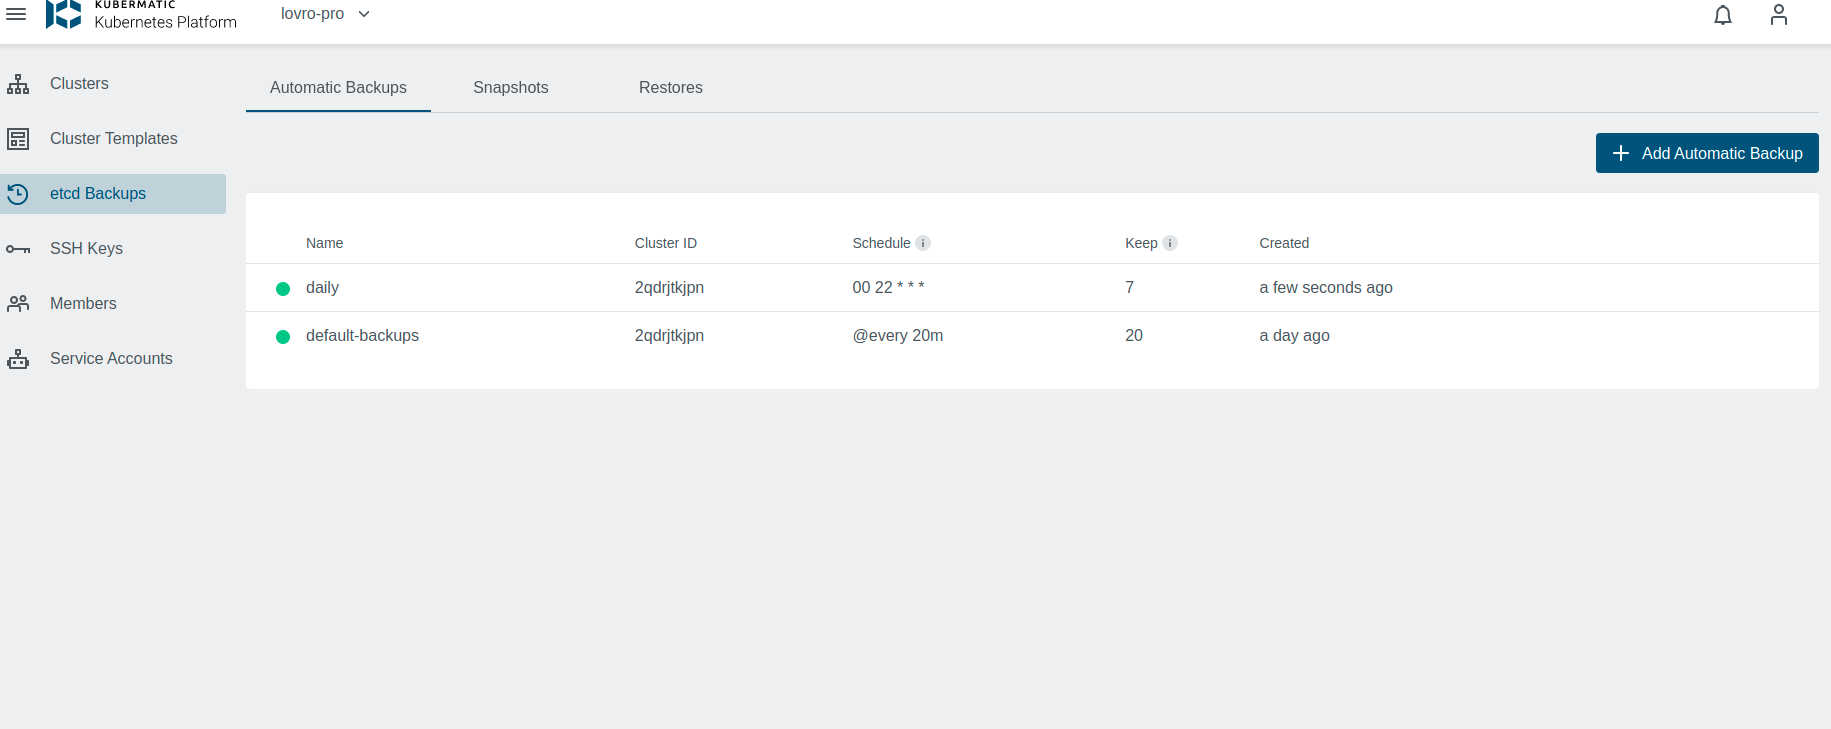
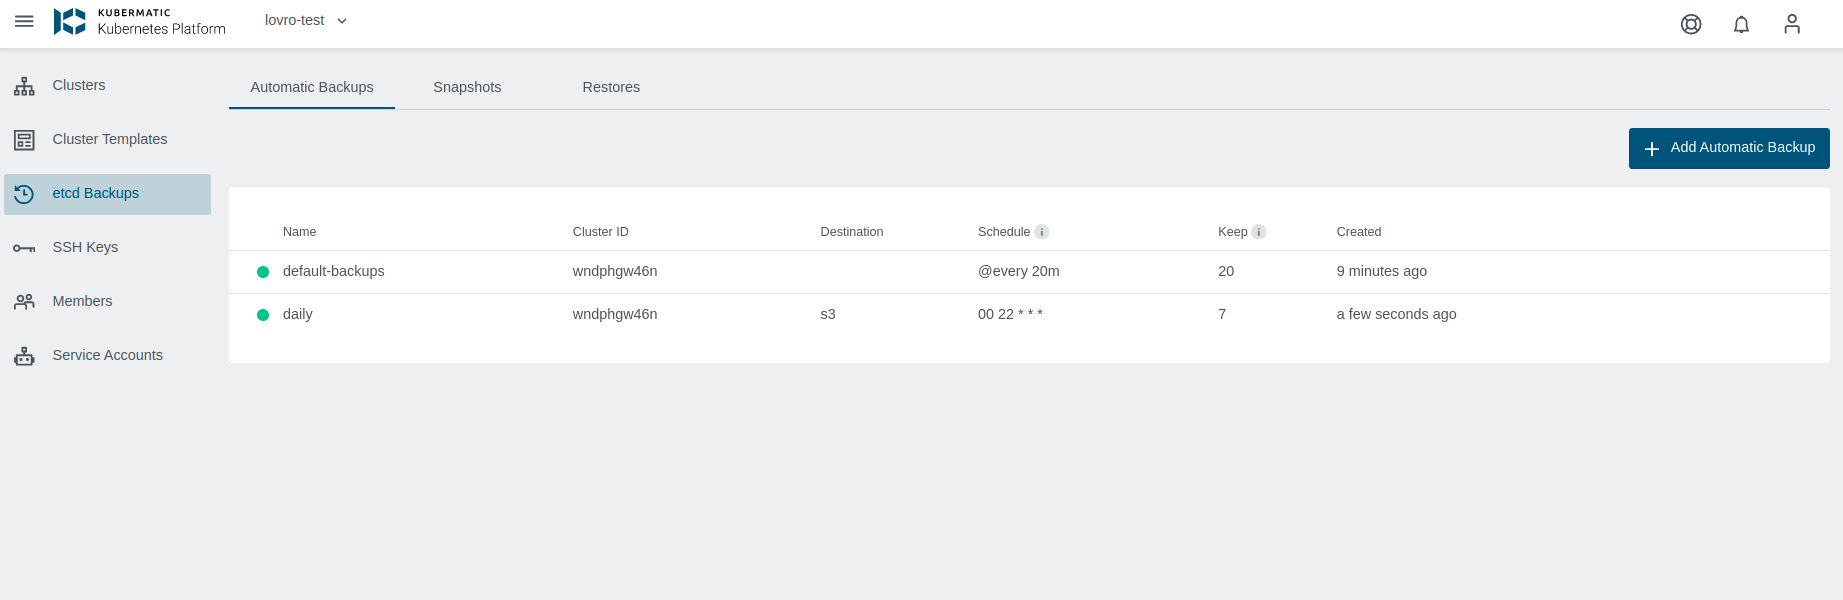
updated etcd backup docs (#877)

diff --git a/content/kubermatic/master/cheat_sheets/etcd/backup-and-restore/_index.en.md b/content/kubermatic/master/cheat_sheets/etcd/backup-and-restore/_index.en.md
@@ -1,5 +1,5 @@
 +++
-title = "[Experimental] Etcd Backup and Restore Controllers"
+title = "Etcd Backup and Restore Controllers"
 weight = 40
 +++
 
@@ -7,6 +7,8 @@ weight = 40
 ## Overview
 
 Starting with version v2.17, KKP introduced experimental support for new etcd Backup and Restore controller based on the [etcd-launcher]({{< ref "../etcd-launcher" >}}) experimental feature.
+
+Since 2.18, the feature is not experimental anymore
 
 The [legacy backup controller]({{< ref "../legacy_restore" >}}) is based on a simple cron job and didn't support automated restore operations. The new experimental controllers utilize new CRDs for backups and restore, support multiple backup configurations per cluster, immediate backups and automated restore operations.
 
@@ -20,26 +22,12 @@ Currently, only S3 compatible backup backends are supported.
 
 ## Enabling The New controllers
 
-To use the new backup/restore controller, the [etcd-launcher]({{< ref "../etcd-launcher" >}}) experimental feature must be enabled along with specifically enabling the controllers by passing the flag `--enable-etcd-backups-restores` to the seed controller manager. This can be achieved by setting the following values in the [KubermaticConfiguration]({{< ref "../../../tutorials_howtos/KKP_configuration/" >}}):
-
-```yaml
-spec:
-  # SeedController configures the seed-controller-manager.
-  seedController:
-    # BackupRestore contains the setup of the new backup and restore controllers.
-    backupRestore:
-      # Enabled enables the new etcd backup and restore controllers.
-      enabled: true
-      # S3BucketName is the S3 bucket name to use for backup and restore.
-      s3BucketName: ""
-      # S3Endpoint is the S3 API endpoint to use for backup and restore. Defaults to s3.amazonaws.com.
-      s3Endpoint: ""
-    # BackupDeleteContainer is the container used for deleting etcd snapshots from a backup location.
-    backupDeleteContainer: ""
-```
+To use the new backup/restore controller, the [etcd-launcher]({{< ref "../etcd-launcher" >}}) feature must be enabled along with specifically enabling the controllers by passing the flag `--enable-etcd-backups-restores` to the seed controller manager.
+This can be achieved for a Seed by KPP admins through configuring backup destinations for a Seed. As soon as there is at least one backup destination set, the feature is enabled. 
+More info on that here [Etcd Backup Destination Settings]({{< ref "../../../tutorials_howtos/administration/admin_panel/backup_buckets" >}}).
 
 {{% notice note %}}
-
+The legacy way of enabling the automatic etcd backups through the KubermaticConfiguration is still supported, although deprecated. It's advised to migrate to the Seed backup destinations.
 {{% /notice %}}
 
 ### Backup and Delete Containers
@@ -60,36 +48,17 @@ charts/kubermatic/static/delete-container.yaml
 You can't have both `backupCleanupContainer` and `backupDeleteContainer` set. `backupDeleteContainer` will take precedence when the new controller is enabled.
 {{% /notice %}}
 
-{{% notice note %}}
-The new containers expect that the S3 backend is SSL enabled. Unfortunately, the released minio chart doesn't support that by default, and will need to be modified to run over minio over SSL.
-{{% /notice %}}
-
-
 ### S3 Credentials and Settings
 
-The new controllers will use the credentials from the secret `kube-system/s3-credentials` similar to the legacy backup controller.
+The new controllers will use the credentials setup in the Seed Backup destinations, depending on the destination used. 
 
-However, when using the new containers, creating an additional ConfigMap with the S3 backend settings is required:
-
-```yaml
-apiVersion: v1
-kind: ConfigMap
-metadata:
-  name: s3-settings
-  namespace: kube-system
-data:
-  BUCKET_NAME: 
-  ENDPOINT: 
-```
-
+{{% notice note %}}
+Legacy credentials from `kube-system/s3-credentials` and the bucket details in `s3-settings` configmap is still supported, but deprecated. Please migrate to backup destinations.
+{{% /notice %}}
 
 ## Creating Backups
 
-By default a new backup configuration resource is created in the cluster namespace for each user cluster once the controllers are enabled. The new backup configuration resource is created with a default of `@every 20m` interval and 20 backup retention.
-
-### Custom Backup Configurations
-
-However, it's possible to create additional backup configuration if needed, simply by creating a backup configuration resource:
+To create an automatic backup, simply create a backup configuration resource. Or use the UI as shown here [Etcd Backup Management]({{< ref "../../../tutorials_howtos/etcd_backups" >}}).
 
 ```yaml
 apiVersion: kubermatic.k8s.io/v1
@@ -104,9 +73,13 @@ spec:
     name: zvc78xnnz7
   schedule: '0 1 * * *'
   keep: 40
+  destination: s3
 ```
 
-Once created, the controller will start a new backup every time the schedule demands it (i.e. at 1:00 AM in the example), and delete backups once more than `.spec.keep` (40 in the example) have been created. The created backups are named based on the configuration name and the backup timestamp `$backupconfigname-$timestamp`.
+Once created, the controller will start a new backup every time the schedule demands it (i.e. at 1:00 AM in the example),
+and delete backups once more than `.spec.keep` (40 in the example) have been created. The created backups are named based on the
+configuration name and the backup timestamp `$backupconfigname-$timestamp`. The backup is stored at the specified backup destination,
+which is configured per seed.
 
 Backup creations and deletions are done by spawning Kubernetes jobs. For each backup, a job is created with an init container that creates a snapshot and a main container that will run the customizable store container. It will receive the cluster name and backup name in two environment variables. The store container should upload the snapshot to an S3 compatible backend and return exit code 0 if successful.
 
@@ -114,7 +87,7 @@ When a backup needs to be deleted, the controller starts another job with the de
 
 The controller maintains list of backups related to this configuration in the resource status spec, where it tracks the creation and deletion status of all backups that haven't been successfully deleted yet.
 
-### One Time Backups
+### One Time Backups - Snapshots
 
 It's also possible to trigger a one-time backup if needed. Simply by creating a backup configuration that doesn't have a `schedule` set in the spec. The backup controller will immediately create a backup job for the user cluster and will not attempt to run it again or delete it later.
 
@@ -168,6 +141,7 @@ spec:
     kind: Cluster
     name: zvc78xnnz7
   backupName: daily-backup-2021-03-02T15:24:00
+  destination: s3
 ```
 
 Once this resource is created, the controller will reconcile it and apply the following restore procedure:
@@ -178,7 +152,7 @@ Once this resource is created, the controller will reconcile it and apply the fo
 - Unpause the cluster and wait until the cluster controller has recreated the etcd Statefulset. 
 - During the etcd Statefulset recreation, the etcd-launcher will detect the active restore resources and will download the backup from the S3 backend based on the credentials from the `kube-system/s3-credentials` secret and the information from the `kube-system/s3-settings` configmap. 
 - Once the backup is downloaded successfully, the etcd-launcher will restore the backup and restart the etcd ring.
-- Once the etcd cluster is recovered and quorum is achieved, the `EtcdClusterInitialized` cluster condition to true. At this point the 
+- Once the etcd cluster is recovered and quorum is achieved, the `EtcdClusterInitialized` cluster condition to true.
 
 
 {{% notice note %}}

diff --git a/content/kubermatic/master/tutorials_howtos/etcd_backups/_index.en.md b/content/kubermatic/master/tutorials_howtos/etcd_backups/_index.en.md
@@ -7,14 +7,11 @@ weight = 3
 
 Through KKP you can set up automatic scheduled etcd backups for your user clusters, and easily restore etcd to its previous state.
 
-Firstly, you need to enable and configure the backup bucket, endpoint and credentials. To see how, check [Backup Buckets Settings]({{< ref "../administration/admin_panel/backup_buckets" >}}) 
+Firstly, you need to enable and configure the destination(backup bucket, endpoint and credentials). To see how, check [Etcd Backup Destination Settings]({{< ref "../administration/admin_panel/backup_buckets" >}}) 
 
 ## Etcd Backups
 
-By default a new backup configuration resource is created in the cluster namespace for each user cluster once the controllers are enabled.
-The new backup configuration resource is created with a default of `@every 20m` interval and `20` backup retention.
-
-However, it's possible to create additional backup configuration if needed, simply by creating a backup configuration resource:
+When the etcd backups are configured for a seed, project admins can create automatic Etcd Backups for the project clusters. B
 
 ```yaml
 apiVersion: kubermatic.k8s.io/v1
@@ -29,11 +26,13 @@ spec:
     name: zvc78xnnz7
   schedule: '@every 20m'
   keep: 20
+  destination: s3
 ```
 
 Once created, the controller will start a new backup every time the schedule demands it (i.e. at 1:00 AM in the example),
 and delete backups once more than `.spec.keep` (20 in the example) have been created. The created backups are named based
-on the configuration name and the backup timestamp `$backupconfigname-$timestamp`.
+on the configuration name and the backup timestamp `$backupconfigname-$timestamp`. The backup is stored at the specified backup destination,
+which is configured per seed. 
 
 It is also possible to do one-time backups (snapshots).
 
@@ -46,9 +45,10 @@ EtcdBackups and Restores are project resources, and you can manage them in the P
 ![Etcd Backups View](/img/kubermatic/master/ui/etcd_backups.png?classes=shadow,border "Project Etcd Backups")
 
 To create a backup, just click on the `Add Automatic Backup` button. You have a choice of preset daily, weekly or monthly backups,
-or you can create a backup with a custom interval and keep time.
+or you can create a backup with a custom interval and keep time. The destination dropdown is based on the configured backup destinations
+for a given seed the cluster belongs to.
 
-![Etcd Backups Configuration](/img/kubermatic/master/ui/add_etcd_backup.png?classes=shadow,border "Etcd Backups Configuration")
+![Etcd Backups Configuration](/img/kubermatic/master/ui/add_backup.png?classes=shadow,border "Etcd Backups Configuration")
 
 To see what backups are available, click on a backup you are interested in, and you will see a list of completed backups.
 
@@ -65,7 +65,7 @@ If you want to restore from a specific backup, just click on the restore from ba
 You can also create one-time backup snapshots, they are set up similarly to the automatic ones, with the difference that they do not
 have a schedule or keep count set.
 
-![Etcd Backup Snapshots](/img/kubermatic/master/ui/backup_snapshots.png?classes=shadow,border "Etcd Backup Snapshots")
+![Etcd Backup Snapshots](/img/kubermatic/master/ui/add_backup_snapshot.png?classes=shadow,border "Etcd Backup Snapshots")
 
 ## Backup Restores
 
@@ -84,7 +84,7 @@ Meaning that they will still run, even though etcd(and K8s) is not aware of them
 
 This will create an EtcdRestore object for your cluster. You can observe the progress in the Restore list.
 
-![Etcd Restore List](/img/kubermatic/master/ui/restore_list.png?classes=shadow,border "Etcd Restore List")
+![Etcd Restore List](/img/kubermatic/master/ui/etcd_restores_list.png?classes=shadow,border "Etcd Restore List")
 
 In the cluster view, you may notice that your cluster is in a `Restoring` state, and you can not interact with it until it is done.
 

diff --git a/content/kubermatic/master/tutorials_howtos/administration/admin_panel/backup_buckets/_index.en.md b/content/kubermatic/master/tutorials_howtos/administration/admin_panel/backup_buckets/_index.en.md
@@ -1,35 +1,48 @@
 +++
-title = "Backup Buckets"
-date = 2021-09-16T11:07:15+02:00
+title = "Etcd Backup Settings"
+date = 2021-12-09T11:07:15+02:00
 weight = 20
 +++
 
-Through the Backup Buckets settings you can enable and configure the new etcd backups for each Seed.
+Through the Backup Destinations settings you can enable and configure the new etcd backups for each Seed.
 
-![Backup Buckets](/img/kubermatic/master/tutorials/backups/backup_buckets.png?classes=shadow,border "Backup Bucket Settings View")
+![Backup Destinations](/img/kubermatic/master/tutorials/backups/backup_destinations.png?classes=shadow,border "Backup Destinations Settings View")
 
 
-### Bucket Settings
+### Etcd Backup Settings
 
-Setting the Bucket and Endpoint for a Seed turns on the automatic etcd Backups and Restore feature, for that Seed only. For now,
+Setting a Bucket and Endpoint for a Seed turns on the automatic etcd Backups and Restore feature, for that Seed only. For now,
 we only support S3 compatible endpoints.
 
+It is possible to set multiple destinations per Seed, so that for example some backups can go into the local minio, and 
+some to an S3 bucket, depending on the importance.
+
 {{% notice note %}}
-Once enabled, unsetting the etcd backup name and endpoint won't disable the new backup. You need to manually edit the Seed object and 
-remove the `spec.backupRestore` field. We hope to improve this for the next release.
+For users already using the backups introduced in 2.18, when only one backup bucket and endpoint was available, their
+backups will still work, and the old method is still supported, but deprecated. A warning will be shown on the seed in question, which 
+instructs users to add a destination, and migrate backups to use destination.
+
+![Backup Destinations Warning](/img/kubermatic/master/tutorials/backups/backup_seed_warning.png?classes=shadow,border "Backup Destinations Settings View - Warning")
 {{% /notice %}}
 
-To set the endpoint and bucket, just click on the `Edit Bucket Setting` pen icon on the right. 
+To add a new backup destination, just click on the `Add Destination` button on the right. 
 
-![Edit Buckets](/img/kubermatic/master/tutorials/backups/edit_buckets.png?classes=shadow,border "Backup Bucket Settings Edit")
+When a destination is added, credentials also need to be added for the bucket. To do that, click on the `Edit Credentials`
+button and set the credentials. When credentials are properly set, the green checkmark appears and the destination can be used.
+
+![Add Backup Destination](/img/kubermatic/master/tutorials/backups/add_backup_destination.png?classes=shadow,border "Backup Destination Settings Add")
+
+To edit, just click on the `Edit Destination` pen icon on the right
+
+![Edit Backup Destination](/img/kubermatic/master/tutorials/backups/edit_backup_destination.png?classes=shadow,border "Backup Destination Settings Edit")
 
 ### Credentials
 
-For the etcd Backups and Restore to work correctly, the credentials for the bucket need to be set up as well. This can be
-done by clicking on the `Edit Credentials` button on the right.
+When a destination is added, credentials also need to be added for the bucket. To do that, click on the `Edit Credentials`
+button and set the credentials. When credentials are properly set, the green checkmark appears and the destination can be used.
 
 For security reasons, the API/UI does not offer a way to get the current credentials.
 
-![Edit Buckets](/img/kubermatic/master/tutorials/backups/set_backup_credentials.png?classes=shadow,border "Backup Bucket Credentials Edit")
+![Edit Credentials](/img/kubermatic/master/tutorials/backups/edit_backup_dest_credentials.png?classes=shadow,border "Backup Destination Credentials Edit")
 
 To see how to make backups and restore your cluster, check the [Etcd Backup and Restore Tutorial]({{< ref "../../../etcd_backups" >}}).
